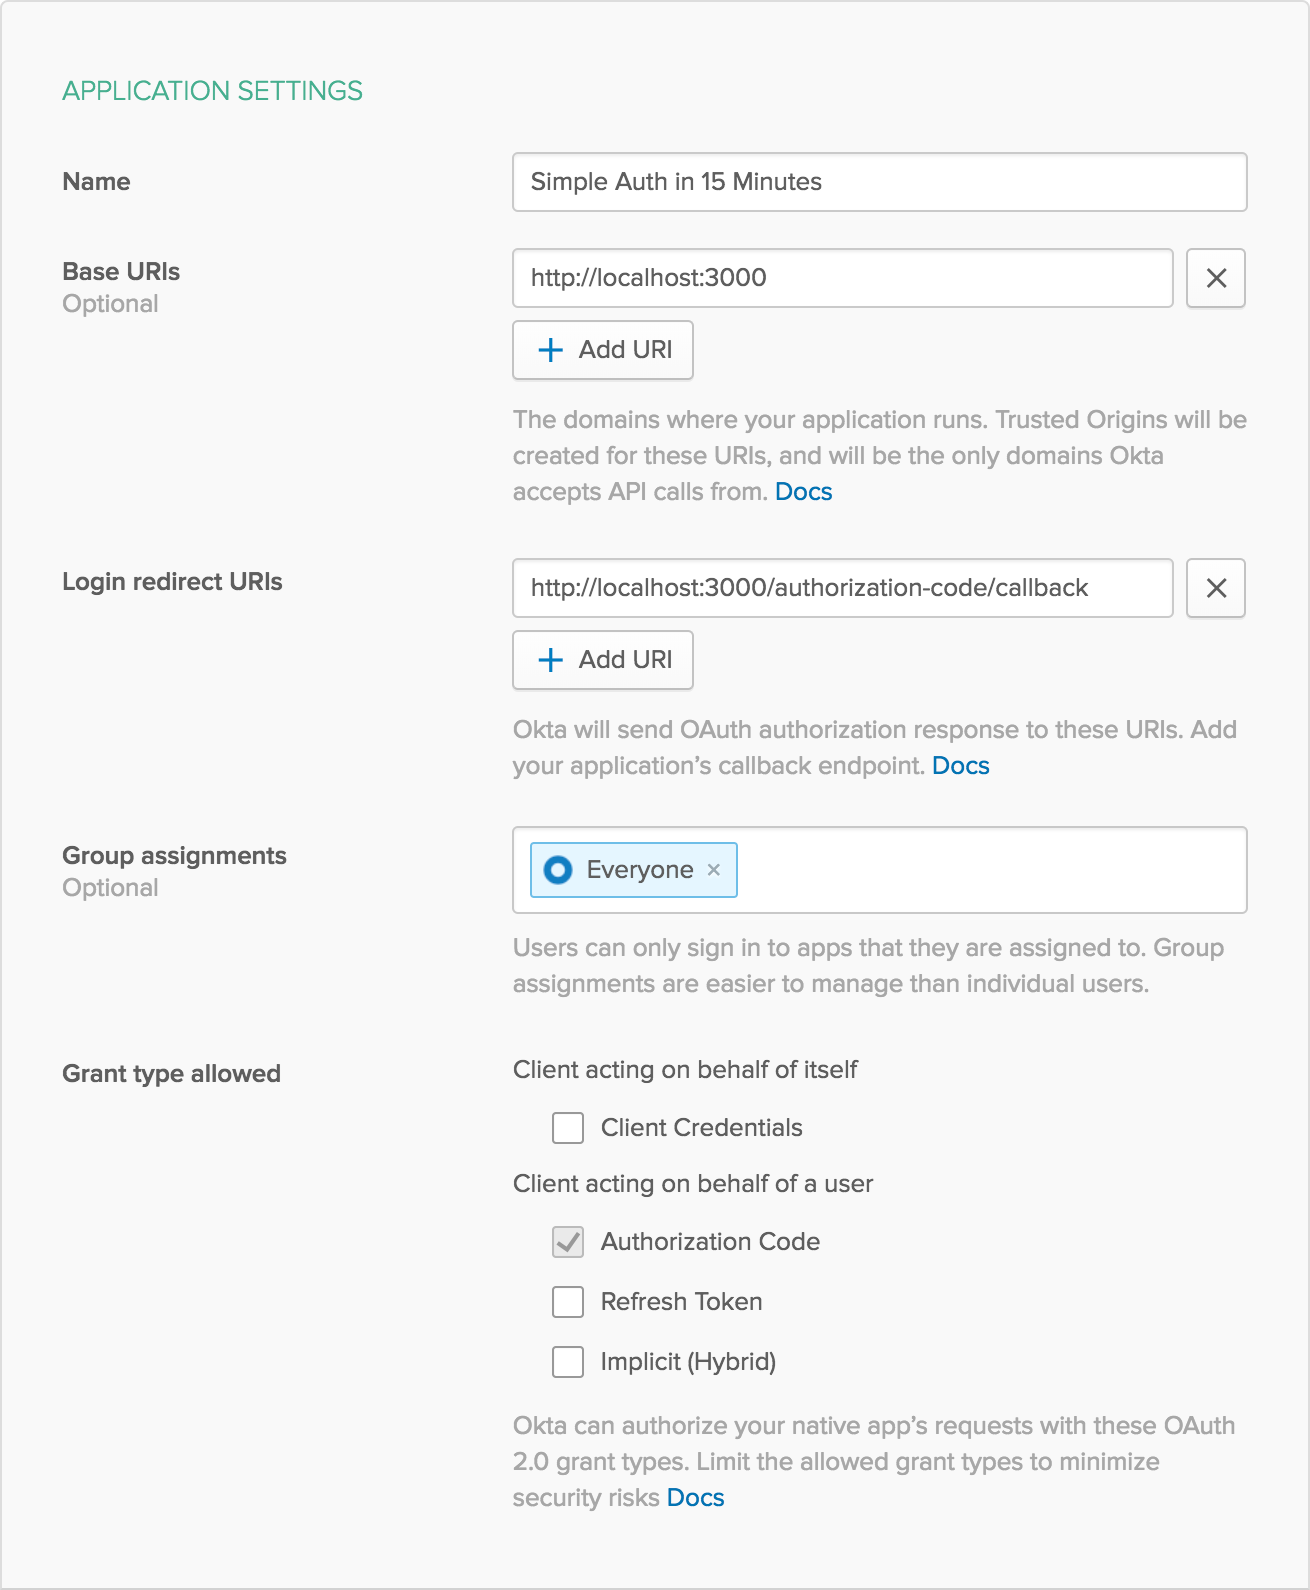
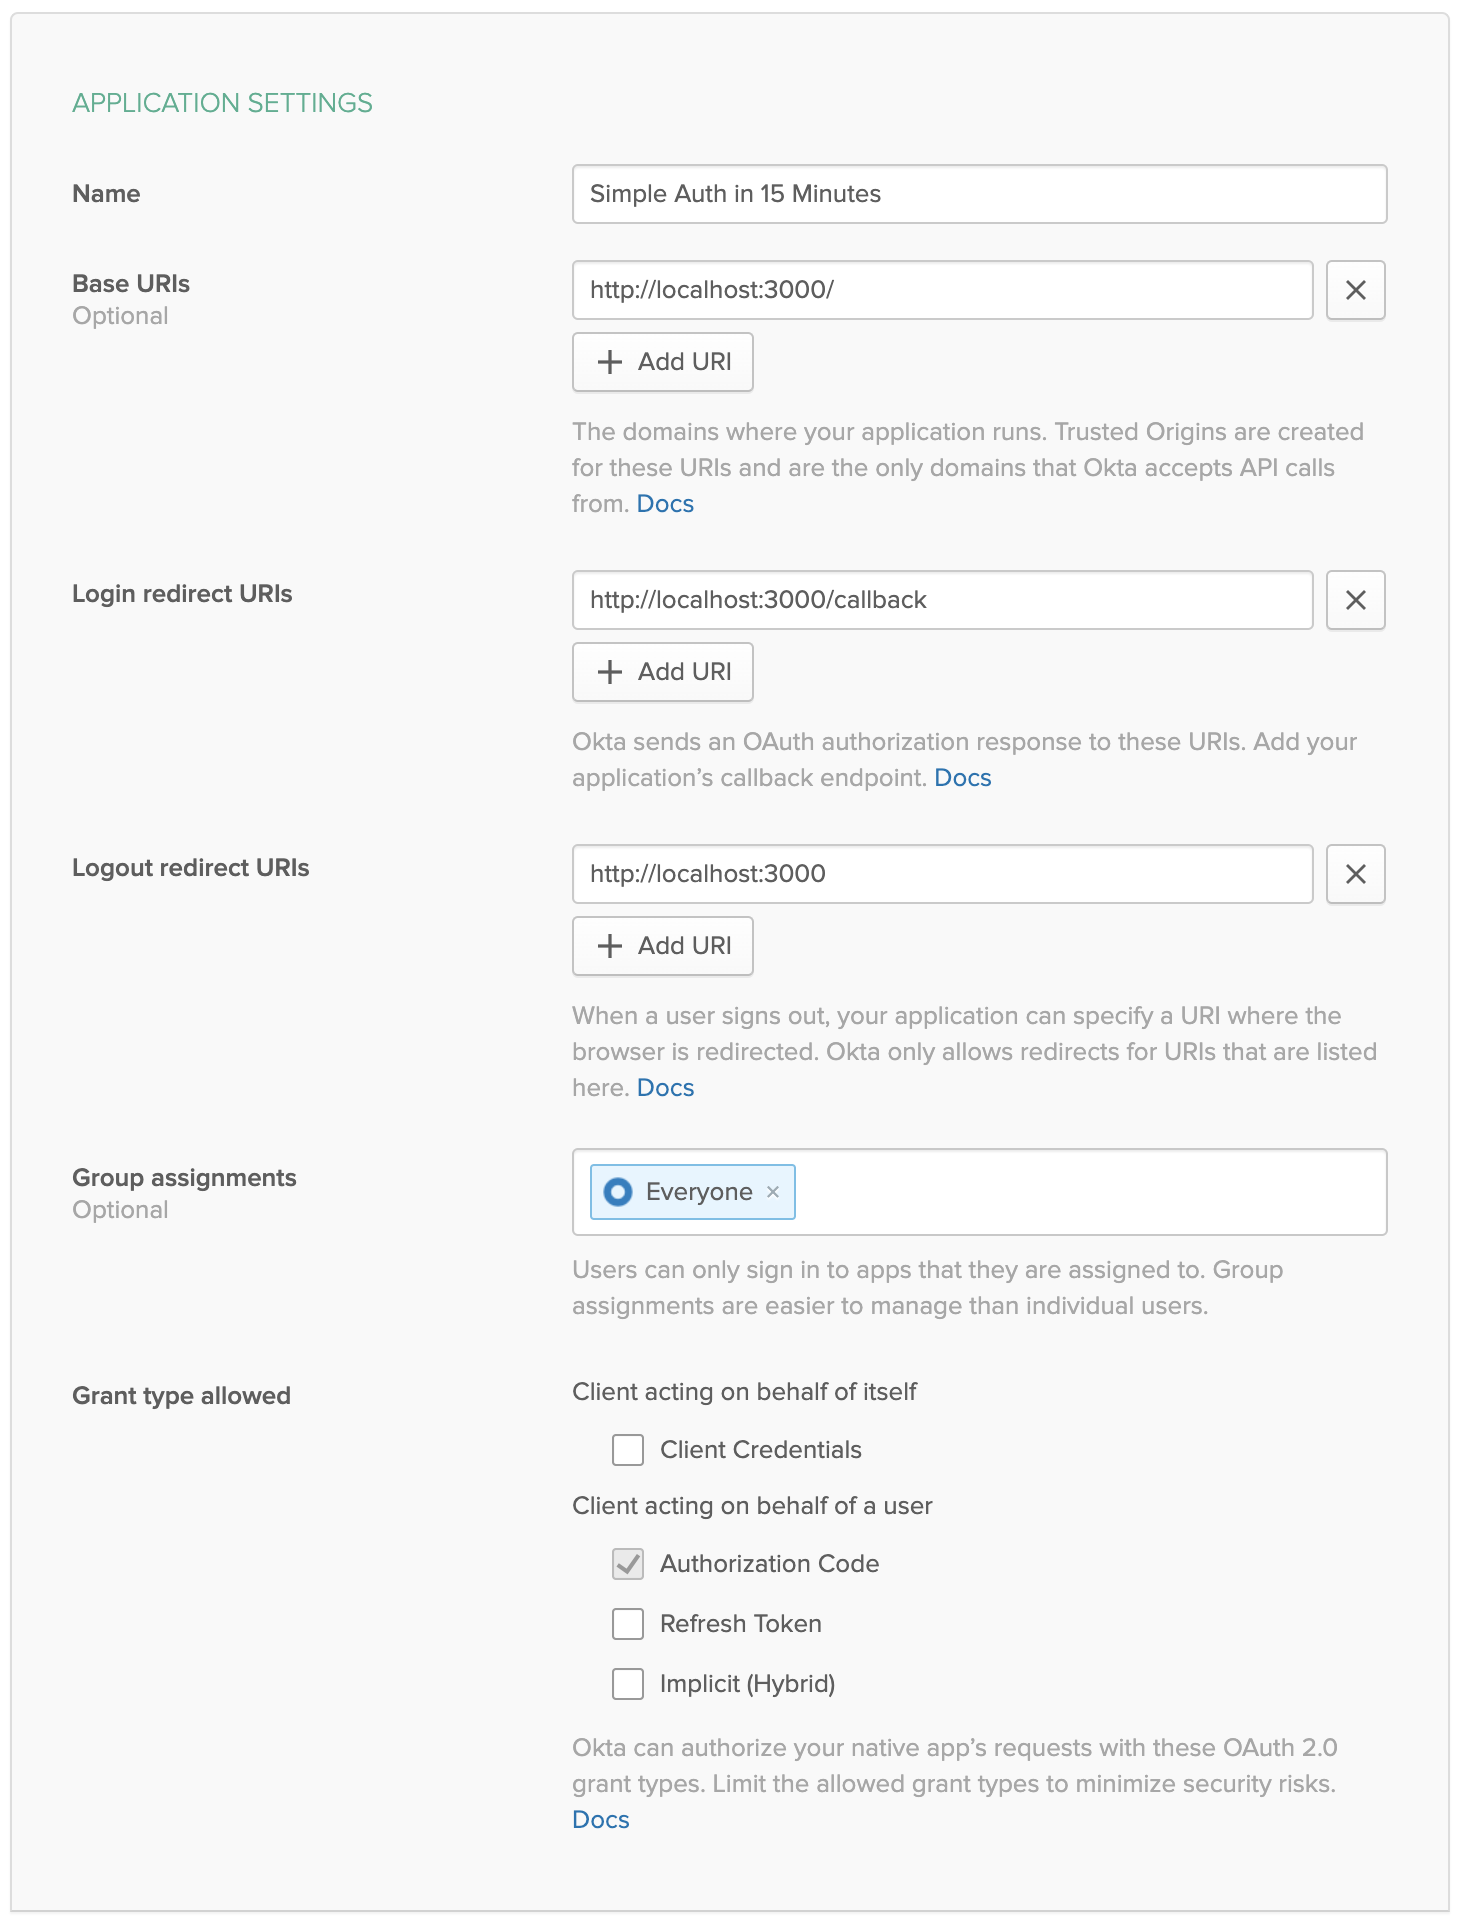
Update Express in 15 Minutes to use latest versions

diff --git a/_source/_posts/2019-05-31-simple-auth-express-fifteen-minutes.md b/_source/_posts/2019-05-31-simple-auth-express-fifteen-minutes.md
@@ -26,8 +26,8 @@ Creating a new app in Express doesn't take a lot of code. You'll need to set up 
 mkdir new-project
 cd new-project
 npm init -y
-npm install express@4.16.4 hbs@4.0.1
-npm install --save-dev nodemon@1.18.4 standard@12.0.1
+npm install express hbs @4.17.1 hbs@4.1.1
+npm install --save-dev nodemon@2.0.4 standard@14.3.4
 ```
 
 Edit the `"scripts"` section of your `package.json` to look like this:
@@ -56,7 +56,6 @@ app.use('/static', express.static('public'));
 
 // @TODO add auth middleware
 // @TODO add registration page
-// @TODO add logout route
 
 app.use('/', require('./routes/index'));
 
@@ -182,9 +181,9 @@ npm install -g uuid-cli
 echo "APP_SECRET=`uuid`" >> .env
 ```
 
-Next, log in to your Okta developer console, navigate to **Applications**, then click **Add Application**. Select **Web**, then click **Next**.
+Next, log in to your Okta developer console, navigate to **Applications**, then click **Add Application**. Select **Web**, then click **Next**. Change all ports to be 3000 and add `http://localhost:3000/callback` as a **Login redirect URI**.
 
-{% img blog/express-auth/create-new-application-settings.png alt:"Create New Application Settings" width:"800" %}{: .center-image }
+{% img blog/express-auth/create-new-application-settings.png alt:"Create New Application Settings" width:"700" %}{: .center-image }
 
 The page you come to after creating an application has some more information you need to save to your `.env` file. Copy in the client ID and client secret.
 
@@ -193,9 +192,7 @@ OKTA_CLIENT_ID={yourClientId}
 OKTA_CLIENT_SECRET={yourClientSecret}
 ```
 
-At the time of this writing, the default application creation page does not allow you to add a Logout redirect URI, but you can add one after creating the application. After creating the application, click **Edit**, then next to **Logout redirect URIs** click **Add URI**. Add a logout redirect URI of `http://localhost:3000` and click **Save**.
-
-The last piece of information you need from Okta is an API token. In your developer console, navigate to **API** -> **Tokens**, then click on **Create Token**. You can have many tokens, so just give this one a name that reminds you what it's for, like "15 Minute Auth". You'll be given a token that you can only see right now. If you lose the token, you'll have to create another one. Add this to `.env` also.
+The last piece of information you need from Okta is an API token. In your developer console, navigate to **API** > **Tokens**, then click on **Create Token**. You can have many tokens, so just give this one a name that reminds you what it's for, like "15 Minute Auth". You'll be given a token that you can only see right now. If you lose the token, you'll have to create another one. Add this to `.env` also.
 
 ```bash
 OKTA_TOKEN={yourOktaAPIToken}
@@ -206,7 +203,7 @@ OKTA_TOKEN={yourOktaAPIToken}
 Okta provides some middleware that will give you information about whether the user is registered or not. It also gives you a login page by default at `/login`. Add the following dependencies:
 
 ```bash
-npm install dotenv@6.1.0 express-session@1.15.6 @okta/oidc-middleware@1.0.2 @okta/okta-sdk-nodejs@1.2.0
+npm install dotenv@8.2.0 express-session@1.17.1 @okta/oidc-middleware@4.0.1 @okta/okta-sdk-nodejs@3.3.1
 ```
 
 In your `index.js` page, replace the `// @TODO add auth middleware` comment with the following code:
@@ -222,11 +219,17 @@ app.use(
 
 const { ExpressOIDC } = require('@okta/oidc-middleware');
 const oidc = new ExpressOIDC({
+  appBaseUrl: process.env.HOST_URL,
   issuer: `${process.env.OKTA_ORG_URL}/oauth2/default`,
   client_id: process.env.OKTA_CLIENT_ID,
   client_secret: process.env.OKTA_CLIENT_SECRET,
-  redirect_uri: `${process.env.HOST_URL}/authorization-code/callback`,
-  scope: 'openid profile'
+  redirect_uri: `${process.env.HOST_URL}/callback`,
+  scope: 'openid profile',
+  routes: {
+    loginCallback: {
+      path: '/callback'
+    },
+  }
 });
 
 app.use(oidc.router);
@@ -240,7 +243,7 @@ require('dotenv').config();
 
 ### Create a Registration Page
 
-You should now be able to login by going to `/login`. This will redirect you to your Okta developer page, and after you sign in you'll be redirected back to the homepage.
+You should now be able to login by going to `/login` in an incognito window. This will redirect you to your Okta developer page, and after you sign in you'll be redirected back to the homepage.
 
 For people who aren't registered yet, they'll need a registration page. At the time of this writing, Okta doesn't provide a registration page out of the box, but you can build one pretty quickly. Create a new view for your route:
 
@@ -352,27 +355,11 @@ You can now have users register. If they run into an error, it will be displayed
 
 {% img blog/express-auth/register.png alt:"Register With Error" width:"800" %}{: .center-image }
 
-### Add a Logout Route
+### The Default Logout Route
 
-At the time of this writing, Okta's middleware doesn't provide a default `/logout` route. Luckily, adding one is fairly simple. In your `index.js` file, replace the `// @TODO add logout route` comment with:
+Okta's middleware also provides a `/logout` route. 
 
-```javascript
-app.get('/logout', (req, res) => {
-  if (req.userContext) {
-    const idToken = req.userContext.tokens.id_token;
-    const to = encodeURI(process.env.HOST_URL);
-    const params = `id_token_hint=${idToken}&post_logout_redirect_uri=${to}`;
-    req.logout();
-    res.redirect(
-      `${process.env.OKTA_ORG_URL}/oauth2/default/v1/logout?${params}`
-    );
-  } else {
-    res.redirect('/');
-  }
-});
-```
-
-If you're logged in, this will invalidate the token and delete the user's session. It will then redirect you back to the homepage. If you're not logged in, it just takes you back to the homepage.
+If you're logged in, hitting `http://localhosts:3000/logout` with a POST request will invalidate the token and delete the user's session. It will then redirect you back to the homepage. If you're not logged in, it just takes you back to the homepage.
 
 ### Add Links to the New Routes in Your Express App
 
@@ -410,7 +397,9 @@ Now to add the buttons. In `views/layout.hbs`, replace the `{{!-- @TODO add auth
 {%raw%}
 ```hbs
 {{#if userContext}}
-  <a class="nav-item nav-link" href="/logout">Log out</a>
+  <form method="POST" action="/logout">
+    <button type="submit" class="btn btn-link nav-item nav-link">Logout</button>
+  </form>
 {{else}}
   <a class="nav-item nav-link" href="/login">Log in</a>
   <a class="nav-item nav-link" href="/register">Register</a>
@@ -428,10 +417,14 @@ That's it! In just a few minutes, you went from an empty folder to a secure webs
 
 If you'd like to learn more about Node and Express check out some of these other posts on the Okta developer blog:
 
-- [Build and Understand Express Middleware through Examples](https://developer.okta.com/blog/2018/09/13/build-and-understand-express-middleware-through-examples)
-- [Build and Understand a Simple Node.js Website with User Authentication](https://developer.okta.com/blog/2018/08/17/build-and-understand-user-authentication-in-node)
-- [Build a Simple REST API with Node and OAuth 2.0](https://developer.okta.com/blog/2018/08/21/build-secure-rest-api-with-node)
-- [Build Secure Node Authentication with Passport.js and OpenID Connect](https://developer.okta.com/blog/2018/05/18/node-authentication-with-passport-and-oidc)
-- [Secure a Node API with OAuth 2.0 Client Credentials](https://developer.okta.com/blog/2018/06/06/node-api-oauth-client-credentials)
+- [Build and Understand Express Middleware through Examples](/blog/2018/09/13/build-and-understand-express-middleware-through-examples)
+- [Build and Understand a Simple Node.js Website with User Authentication](/blog/2018/08/17/build-and-understand-user-authentication-in-node)
+- [Build a Simple REST API with Node and OAuth 2.0](/blog/2018/08/21/build-secure-rest-api-with-node)
+- [Build Secure Node Authentication with Passport.js and OpenID Connect](/blog/2018/05/18/node-authentication-with-passport-and-oidc)
+- [Secure a Node API with OAuth 2.0 Client Credentials](/blog/2018/06/06/node-api-oauth-client-credentials)
 
-If you have any questions about this post, please add a comment below. For more awesome content, follow [@oktadev](https://twitter.com/oktadev) on Twitter, like us [on Facebook](https://www.facebook.com/oktadevelopers/), or subscribe to [our YouTube channel](https://www.youtube.com/channel/UC5AMiWqFVFxF1q9Ya1FuZ_Q).
+If you have any questions about this post, please add a comment below. For more awesome content, follow [@oktadev](https://twitter.com/oktadev) on Twitter, like us [on Facebook](https://www.facebook.com/oktadevelopers/), or subscribe to [our YouTube channel](https://www.youtube.com/c/oktadev).
+
+**Changelog:**
+
+* Jun 15, 2020: Updated to use the v4.0.1 version of  Okta Middleware. See the code changes in the [example app on GitHub](https://github.com/oktadeveloper/okta-node-express-15-minute-auth-example/pull/6). Changes to this article can be viewed in [oktadeveloper/okta-blog#317](https://github.com/oktadeveloper/okta-blog/pull/317).
